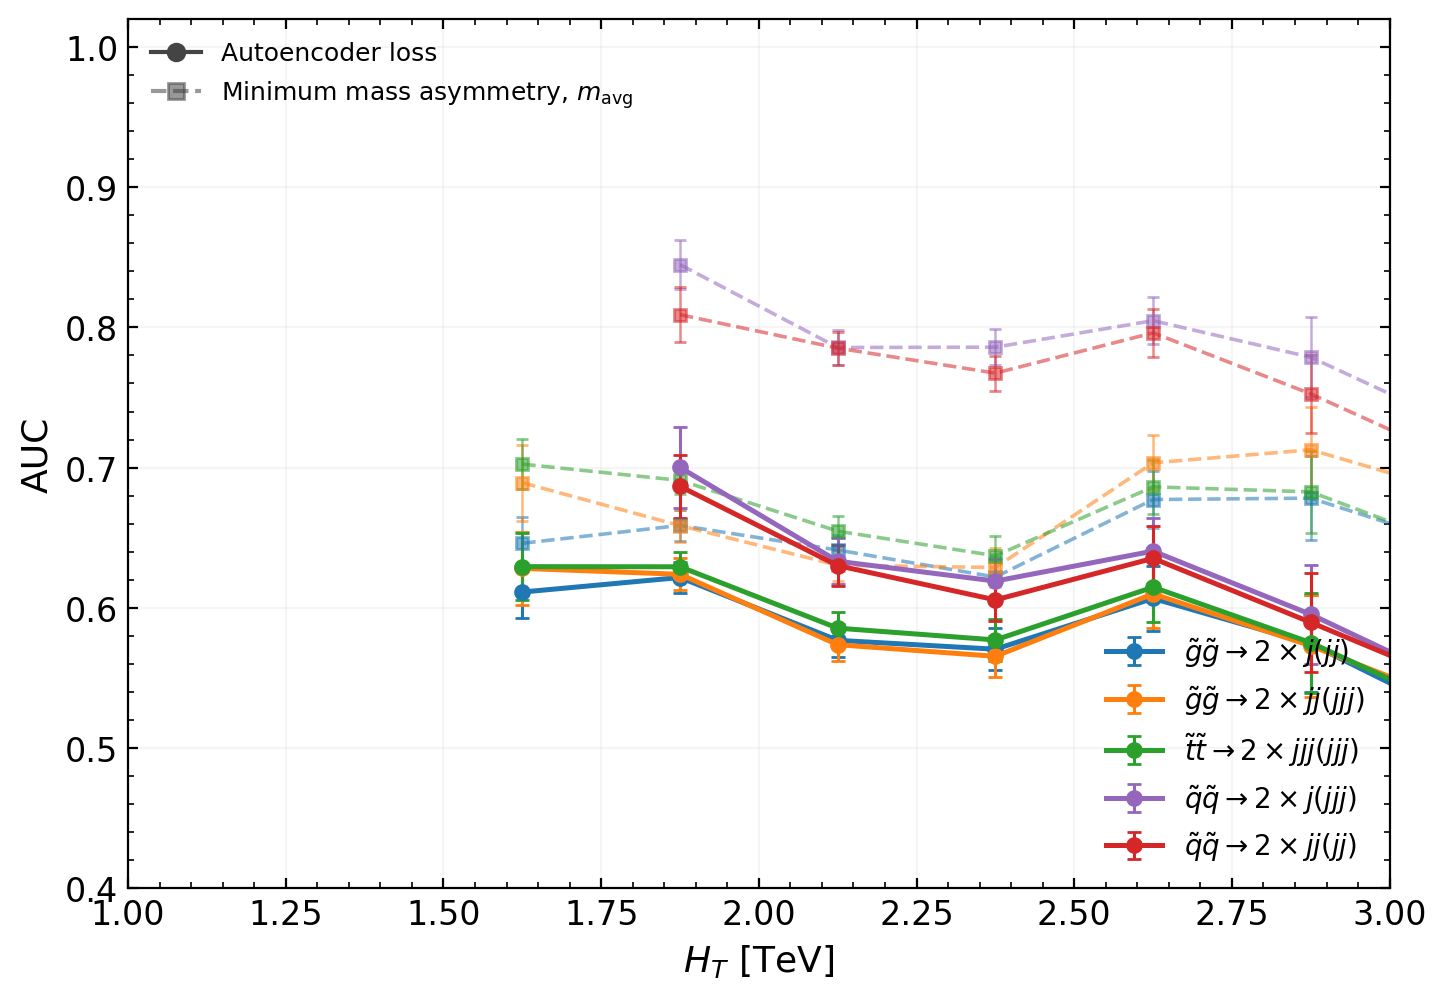
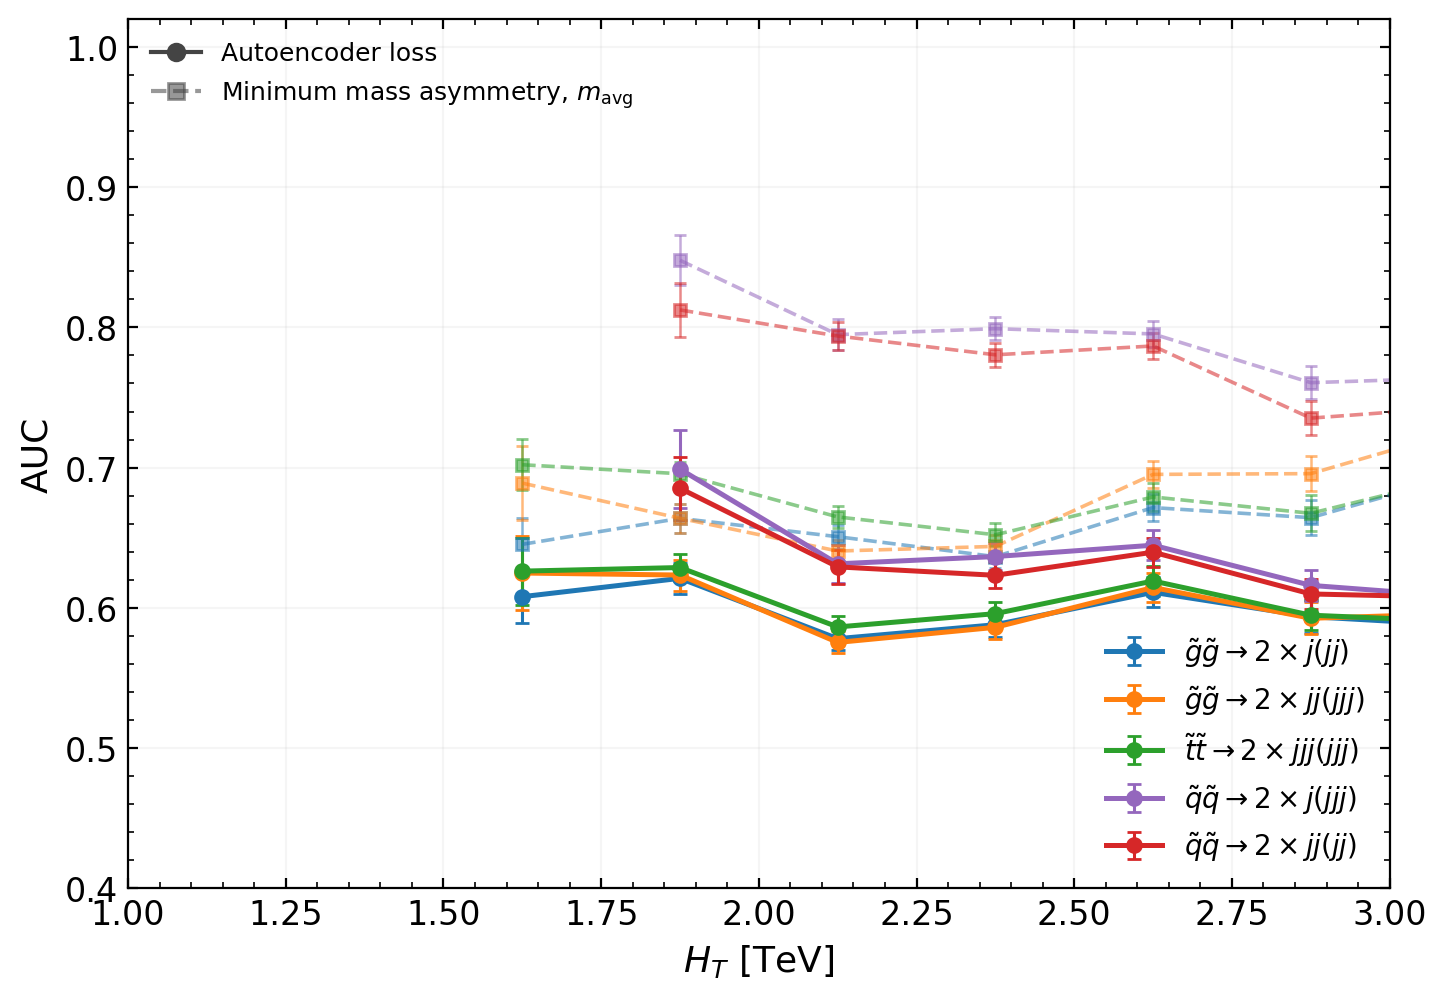
figs: H_T-binned AUC on the full weighted background statistics
Uses every generated QCD event with its pThat-slice cross-section weight
instead of the 200k weighted subsample, which kept only 743 of 107,657
high-pThat events. Same estimator (weights are constant within a slice),
up to 18x the effective statistics in the high-H_T bins; bootstrap errors
there drop from ~0.035 to ~0.011. Stratified bootstrap resamples each
slice and the signal independently. Point values agree with the subsample
version within errors, and the H_T > 2 TeV AUCs are unchanged.

Changed region(s): [[0.3423, 0.2482, 0.9647, 0.6827]]

diff --git a/scripts/ae_ht_decorrelation_weighted.py b/scripts/ae_ht_decorrelation_weighted.py
@@ -1,0 +1,134 @@
+#!/usr/bin/env python
+"""H_T-binned AUC (autoencoder loss vs minimum mass asymmetry) using EVERY
+generated background event with its cross-section weight, instead of the
+200k weighted subsample.
+
+The subsample keeps only 743 of 107,657 high-pThat events, which are exactly
+the ones populating the high-H_T bins. A weighted AUC over all events is the
+same estimator (weights are constant within a pThat slice) with up to 18x
+the effective statistics where it matters. Uncertainties are a stratified
+bootstrap: each slice and the signal are resampled independently.
+
+Input: bkg_weighted.npz (build_weighted_bkg_cache.py), ae_losses.npz,
+anomaly_baselines.npz. Output: figs/ae_auc_vs_ht.png (replaces the
+subsample version) + ae_ht_decorrelation_weighted.json.
+"""
+import json
+import numpy as np
+import matplotlib
+matplotlib.use("Agg")
+import matplotlib.pyplot as plt
+from matplotlib.ticker import AutoMinorLocator
+
+SAVE = "/home/snehadri/aie_scratch_save_20260810"
+bw = np.load(f"{SAVE}/bkg_weighted.npz")
+ae = np.load(f"{SAVE}/ae_losses.npz")
+bl = np.load(f"{SAVE}/anomaly_baselines.npz")
+B_LOSS, B_HT, B_MAVG, B_W, B_SL = bw["loss"], bw["ht"], bw["mavg"], bw["w"], bw["slice_id"]
+
+SIGNALS = [
+    ("gluino_rpv_6j",      r"$\tilde g\tilde g\to 2\times j(jj)$",   "#1f77b4"),
+    ("gluino_rpv_10j",     r"$\tilde g\tilde g\to 2\times jj(jjj)$", "#ff7f0e"),
+    ("stop_rpv_12j",       r"$\tilde t\tilde t\to 2\times jjj(jjj)$","#2ca02c"),
+    ("squark_rpv_8j_2000", r"$\tilde q\tilde q\to 2\times j(jjj)$",  "#9467bd"),
+    ("squark_rpv_8j_WZH_2000", r"$\tilde q\tilde q\to 2\times jj(jj)$",  "#d62728"),
+]
+RNG = np.random.default_rng(20260905)
+N_BOOT = 1000
+MIN_N = 30
+
+def wauc_setup(bs, bwt, ss):
+    """Pre-sort background once; return closure data for point + bootstrap."""
+    o = np.argsort(bs, kind="stable")
+    bs_s, bw_s = bs[o], bwt[o]
+    l = np.searchsorted(bs_s, ss, "left"); r = np.searchsorted(bs_s, ss, "right")
+    return o, bw_s, l, r
+
+def wauc_from_counts(bw_s, l, r, cb, cs):
+    cw = np.concatenate([[0.0], np.cumsum(bw_s * cb)])
+    W = cw[-1]
+    if W <= 0: return np.nan
+    below = 0.5 * (cw[l] + cw[r])
+    return float((cs * below).sum() / (cs.sum() * W))
+
+def wauc_and_err(bs, bwt, bsl, ss, nboot=N_BOOT):
+    """Weighted AUC and stratified-bootstrap std. bsl = slice id per bkg event."""
+    ok = np.isfinite(bs); bs, bwt, bsl = bs[ok], bwt[ok], bsl[ok]
+    ss = ss[np.isfinite(ss)]
+    nb, ns = len(bs), len(ss)
+    if nb < 2 or ns < 2: return np.nan, np.nan, 0.0
+    o, bw_s, l, r = wauc_setup(bs, bwt, ss)
+    bsl_s = bsl[o]
+    point = wauc_from_counts(bw_s, l, r, np.ones(nb), np.ones(ns))
+    groups = [np.where(bsl_s == s)[0] for s in np.unique(bsl_s)]
+    vals = np.empty(nboot)
+    for b in range(nboot):
+        cb = np.zeros(nb)
+        for g in groups:                        # resample within each slice
+            cb[g] = np.bincount(RNG.integers(0, len(g), len(g)), minlength=len(g))
+        cs = np.bincount(RNG.integers(0, ns, ns), minlength=ns).astype(float)
+        vals[b] = wauc_from_counts(bw_s, l, r, cb, cs)
+    neff = bwt.sum() ** 2 / (bwt ** 2).sum()
+    return point, float(np.nanstd(vals, ddof=1)), float(neff)
+
+edges = np.arange(1000, 4001, 250)
+centers = 0.5 * (edges[:-1] + edges[1:])
+results = {}
+print(f"{'bin (TeV)':12s}{'n_bkg':>8s}{'n_eff':>8s}  " + "".join(f"{s[0][:12]:>14s}" for s in SIGNALS))
+for f, lab, col in SIGNALS:
+    s_ht, s_loss, s_mavg = bl[f"{f}_ht"], ae[f], bl[f"{f}_mavg"]
+    aucs, errs, maucs, merrs, ns, neffs = [], [], [], [], [], []
+    for lo, hi in zip(edges[:-1], edges[1:]):
+        bi = (B_HT >= lo) & (B_HT < hi); si = (s_ht >= lo) & (s_ht < hi)
+        if bi.sum() >= MIN_N and si.sum() >= MIN_N:
+            a, e, ne = wauc_and_err(B_LOSS[bi], B_W[bi], B_SL[bi], s_loss[si])
+            m, me, _ = wauc_and_err(B_MAVG[bi], B_W[bi], B_SL[bi], s_mavg[si])
+        else:
+            a = e = m = me = ne = np.nan
+        aucs.append(a); errs.append(e); maucs.append(m); merrs.append(me)
+        ns.append((int(bi.sum()), int(si.sum()))); neffs.append(ne)
+    results[f] = {"auc": aucs, "auc_err": errs, "mavg_auc": maucs, "mavg_err": merrs,
+                  "n": ns, "n_eff": neffs}
+for i, (lo, hi) in enumerate(zip(edges[:-1], edges[1:])):
+    f0 = SIGNALS[0][0]
+    row = f"{lo/1000:.2f}-{hi/1000:.2f}   {results[f0]['n'][i][0]:8d}"
+    ne = results[f0]["n_eff"][i]; row += f"{ne:8.0f}  " if np.isfinite(ne) else f"{'--':>8s}  "
+    for f, _, _ in SIGNALS:
+        a, e = results[f]["auc"][i], results[f]["auc_err"][i]
+        row += f"{a:8.3f}±{e:.3f}" if np.isfinite(a) else f"{'--':>14s}"
+    print(row)
+
+# global weighted AUC after H_T > 2 TeV on both classes
+print("\nweighted AE-loss AUC after H_T > 2 TeV cut:")
+for f, lab, col in SIGNALS:
+    bi = B_HT > 2000; si = bl[f"{f}_ht"] > 2000
+    a, e, ne = wauc_and_err(B_LOSS[bi], B_W[bi], B_SL[bi], ae[f][si], nboot=300)
+    print(f"  {f:24s} AUC={a:.3f}±{e:.3f}  (bkg n={bi.sum()}, n_eff={ne:.0f}, sig n={si.sum()})")
+
+# ---- figure (same style as the subsample version) ----
+plt.rcParams.update({"font.size": 12})
+fig, ax = plt.subplots(figsize=(7.4, 5.2))
+for f, lab, col in SIGNALS:
+    a = np.array(results[f]["auc"]); e = np.array(results[f]["auc_err"])
+    m = np.array(results[f]["mavg_auc"]); me = np.array(results[f]["mavg_err"])
+    ok = np.isfinite(a)
+    ax.errorbar(centers[ok] / 1000, a[ok], yerr=e[ok], fmt="o-", lw=1.8, ms=5,
+                color=col, label=lab, capsize=2.5, elinewidth=1.1)
+    ax.errorbar(centers[ok] / 1000, m[ok], yerr=me[ok], fmt="s--", lw=1.3, ms=4,
+                color=col, alpha=0.55, capsize=2, elinewidth=0.9)
+from matplotlib.lines import Line2D
+style_handles = [Line2D([], [], color="#444", marker="o", ls="-", label="Autoencoder loss"),
+                 Line2D([], [], color="#444", marker="s", ls="--", alpha=0.55,
+                        label=r"Minimum mass asymmetry, $m_\mathrm{avg}$")]
+ax.set_xlim(1.0, 3.0); ax.set_ylim(0.4, 1.02)
+ax.set_xlabel(r"$H_T$ [TeV]", fontsize=13); ax.set_ylabel("AUC", fontsize=13)
+ax.xaxis.set_minor_locator(AutoMinorLocator(5)); ax.yaxis.set_minor_locator(AutoMinorLocator(5))
+ax.tick_params(which="both", direction="in", right=True, top=True)
+ax.grid(alpha=.12)
+leg1 = ax.legend(frameon=False, fontsize=10, loc="lower right"); ax.add_artist(leg1)
+ax.legend(handles=style_handles, frameon=False, fontsize=9, loc="upper left")
+fig.tight_layout()
+out = "/home/snehadri/repos/aie-unsupervised-search/figs/ae_auc_vs_ht.png"
+fig.savefig(out, dpi=200, bbox_inches="tight"); fig.savefig(out.replace(".png", ".pdf"), bbox_inches="tight")
+print("\nsaved", out)
+json.dump(results, open(f"{SAVE}/ae_ht_decorrelation_weighted.json", "w"), indent=1, default=float)
